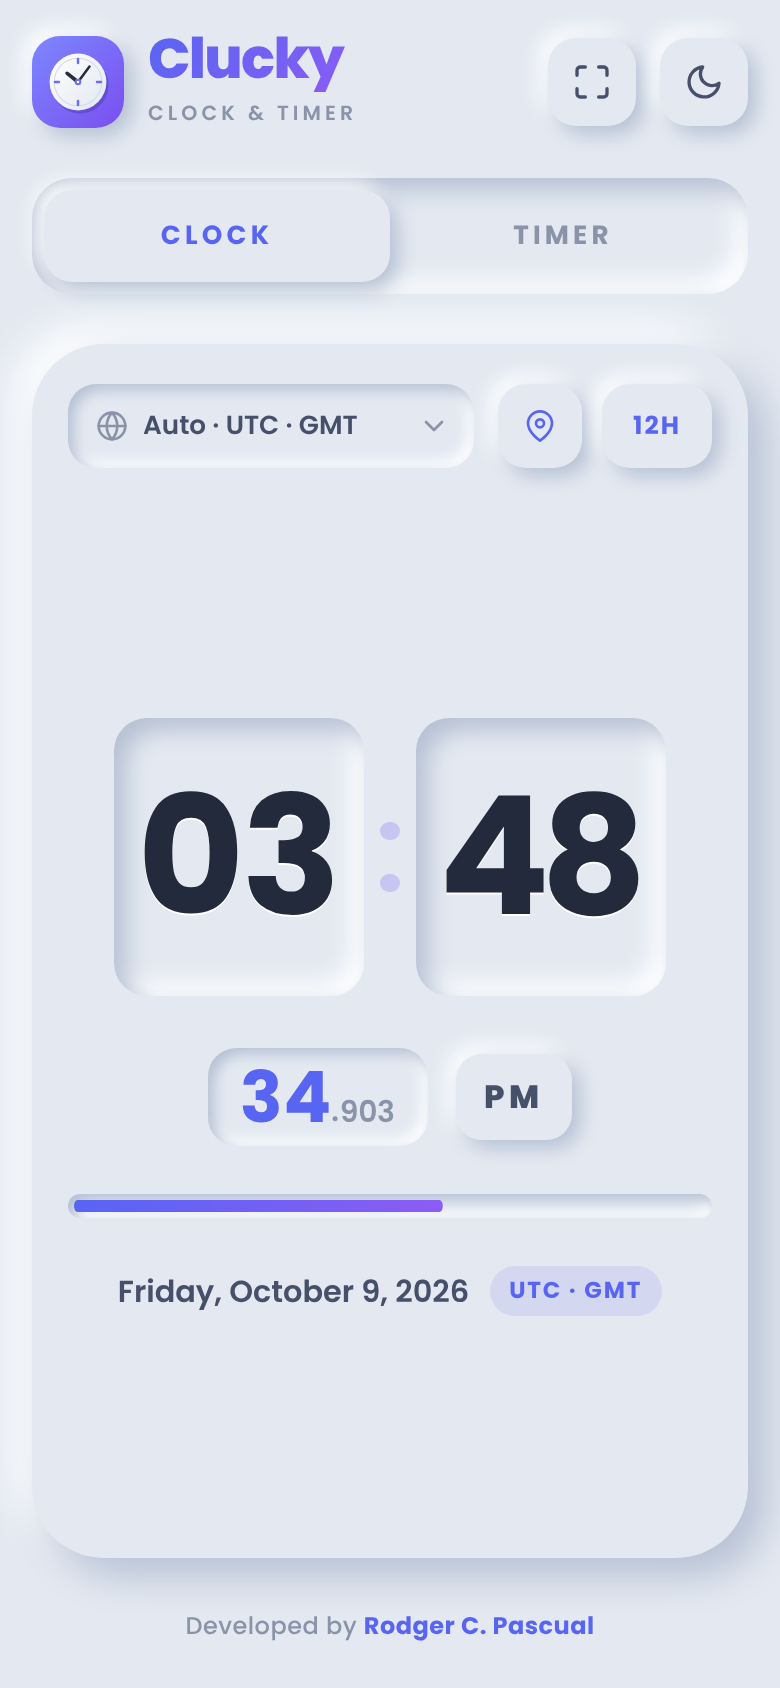
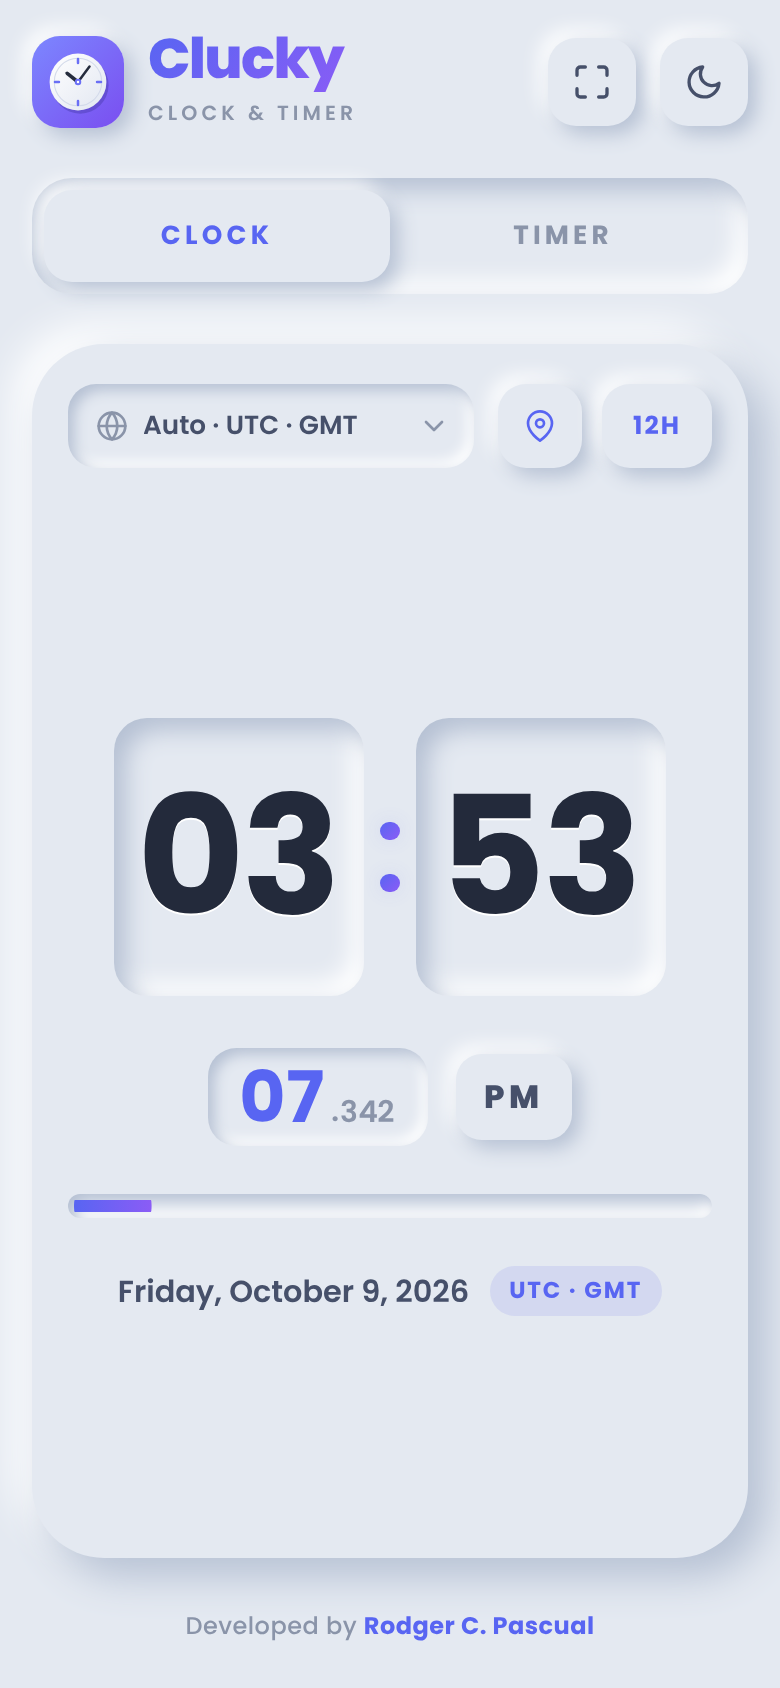
Lay out timer like the clock: HH:MM with SS.mmm pill
The timer's big digits showed MM:SS, so '05:00' read like 5 hours with no
seconds next to the clock's HH:MM. The countdown now mirrors the clock:
hours and minutes in the big digits, and seconds plus milliseconds always
shown in the accent pill underneath. The target-time hint shows the full
HH:MM:SS.mmm. Digit sizes tuned so even 3-digit hour countdowns stay
inside the ring on every screen size.

Claude-Session: https://claude.ai/code/session_01WfvoktpLXkoSJQ23K4QYkQ

diff --git a/app.js b/app.js
@@ -455,6 +455,7 @@
     const ring = $('timer-run');
     const ringBar = $('ring-bar');
     const timerDigits = $('timer-digits');
+    const timerS = $('timer-s');
     const timerMs = $('timer-ms');
     const timerLabel = $('timer-label');
     const btnStart = $('btn-start');
@@ -547,18 +548,15 @@
         updateTargetHint(Date.now());
     });
 
-    // Exact remaining time split into "MM:SS" (or "H:MM:SS") and ".mmm".
-    // A 5-minute timer reads 05:00.000 when it starts and 00:00.000 when it rings.
+    // Exact remaining time, laid out like the clock: "HH:MM" big, then "SS" and ".mmm".
+    // A 5-minute timer reads 00:05 · 00.000 when it starts and 00:00 · 00.000 when it rings.
     function formatCountdown(ms) {
         ms = Math.max(0, Math.floor(ms));
         const totalSec = Math.floor(ms / 1000);
-        const h = Math.floor(totalSec / 3600);
-        const m = Math.floor((totalSec % 3600) / 60);
-        const sec = totalSec % 60;
-        return {
-            main: h > 0 ? `${h}:${pad(m)}:${pad(sec)}` : `${pad(m)}:${pad(sec)}`,
-            ms: '.' + pad(ms % 1000, 3),
-        };
+        const hm = `${pad(Math.floor(totalSec / 3600))}:${pad(Math.floor((totalSec % 3600) / 60))}`;
+        const ss = pad(totalSec % 60);
+        const mmm = '.' + pad(ms % 1000, 3);
+        return { hm, ss, mmm, full: `${hm}:${ss}` };
     }
 
     function updateTargetHint(now) {
@@ -571,7 +569,7 @@
             targetHint.classList.add('bad');
         } else {
             const c = formatCountdown(target - now);
-            targetHint.textContent = `Countdown: ${c.main}${c.ms}`;
+            targetHint.textContent = `Countdown: ${c.full}${c.mmm}`;
             targetHint.classList.remove('bad');
         }
     }
@@ -716,10 +714,12 @@
         const rem = timer.state === 'running' ? Math.min(timer.total, Math.max(0, timer.endAt - now))
             : timer.state === 'paused' ? timer.remaining : 0;
 
-        const { main: str, ms } = formatCountdown(rem);
-        renderDigits(timerDigits, str);
-        renderDigits(timerMs, ms);
-        timerDigits.dataset.len = str.length;
+        const c = formatCountdown(rem);
+        renderDigits(timerDigits, c.hm);
+        renderDigits(timerS, c.ss);
+        renderDigits(timerMs, c.mmm);
+        timerDigits.dataset.len = c.hm.length;
+        const str = c.full;
 
         const progress = timer.total > 0 ? Math.min(1, rem / timer.total) : 0;
         ringBar.style.strokeDashoffset = String(RING_C * (1 - progress));

diff --git a/styles.css b/styles.css
@@ -577,21 +577,26 @@ select option { background: var(--bg); color: var(--text); }
     gap: 2.5cqi;
 }
 .timer-digits {
-    font-size: 21cqi;
+    font-size: 20cqi;
     color: var(--text-strong);
     text-shadow: 0 .015em 0 var(--sh-light);
 }
-.timer-digits[data-len="7"] { font-size: 15.5cqi; }
-.timer-digits[data-len="8"] { font-size: 14cqi; }
-.timer-digits[data-len="9"] { font-size: 12.5cqi; }
-.timer-ms-pill {
-    padding: .18em .55em;
-    border-radius: .5em;
-    font-size: 7cqi;
+/* 3+ digit hours (long target-time countdowns) */
+.timer-digits[data-len="6"] { font-size: 16.5cqi; }
+.timer-digits[data-len="7"] { font-size: 14cqi; }
+.timer-digits[data-len="8"] { font-size: 12.5cqi; }
+
+/* Seconds + milliseconds, same style as the clock's seconds pill */
+.timer-sec-pill {
+    display: flex;
+    align-items: baseline;
+    padding: .14em .42em;
+    border-radius: .4em;
+    font-size: 10cqi;
 }
-.timer-ms-pill .digits { color: var(--accent); font-weight: 700; }
-.ring.is-warn .timer-ms-pill .digits { color: var(--warn); }
-.ring.is-done .timer-ms-pill .digits { color: var(--danger); }
+.timer-sec-pill > .digits:first-child { color: var(--accent); }
+.ring.is-warn .timer-sec-pill > .digits:first-child { color: var(--warn); }
+.ring.is-done .timer-sec-pill > .digits:first-child { color: var(--danger); }
 
 .timer-label {
     min-height: 1.3em;

diff --git a/index.html b/index.html
@@ -191,7 +191,9 @@
                         </svg>
                         <div class="ring-inner neu-in" id="ring-inner">
                             <div id="timer-digits" class="digits timer-digits" role="timer">00:00</div>
-                            <div class="timer-ms-pill neu-in-sm"><span id="timer-ms" class="digits">.000</span></div>
+                            <div class="timer-sec-pill neu-in-sm">
+                                <span id="timer-s" class="digits">00</span><span id="timer-ms" class="digits ms">.000</span>
+                            </div>
                             <div id="timer-label" class="timer-label">&nbsp;</div>
                         </div>
                     </div>

diff --git a/sw.js b/sw.js
@@ -1,6 +1,6 @@
 // Clucky service worker — offline support.
 // Bump VERSION whenever you change any app file so installed apps pick up the update.
-const VERSION = 'clucky-v4';
+const VERSION = 'clucky-v5';
 const FONT_CACHE = 'clucky-fonts';
 
 const SHELL = [
